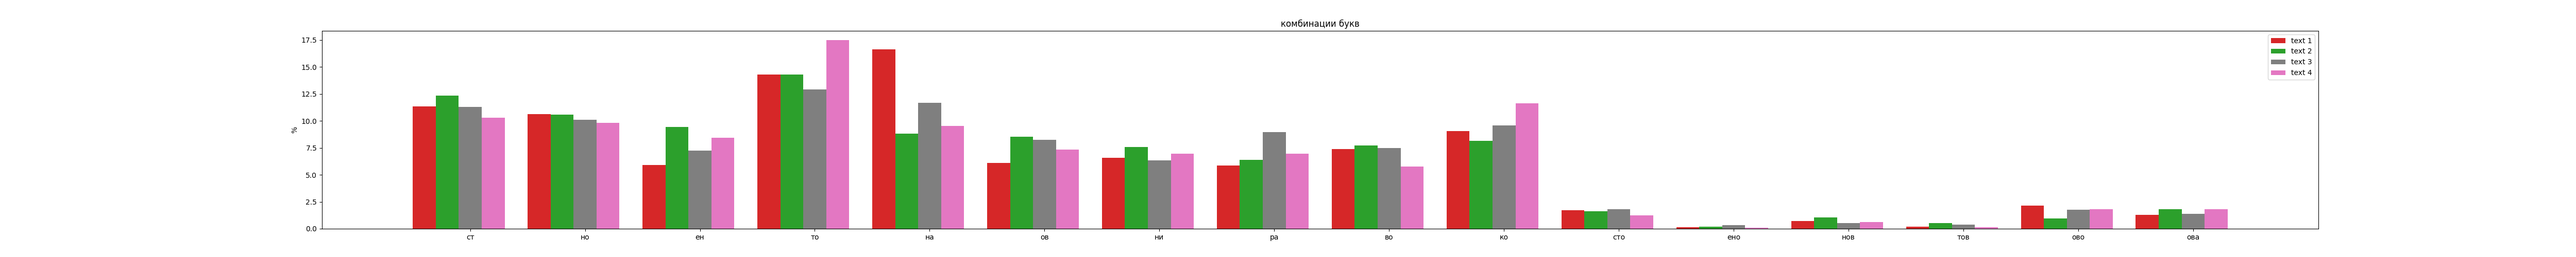
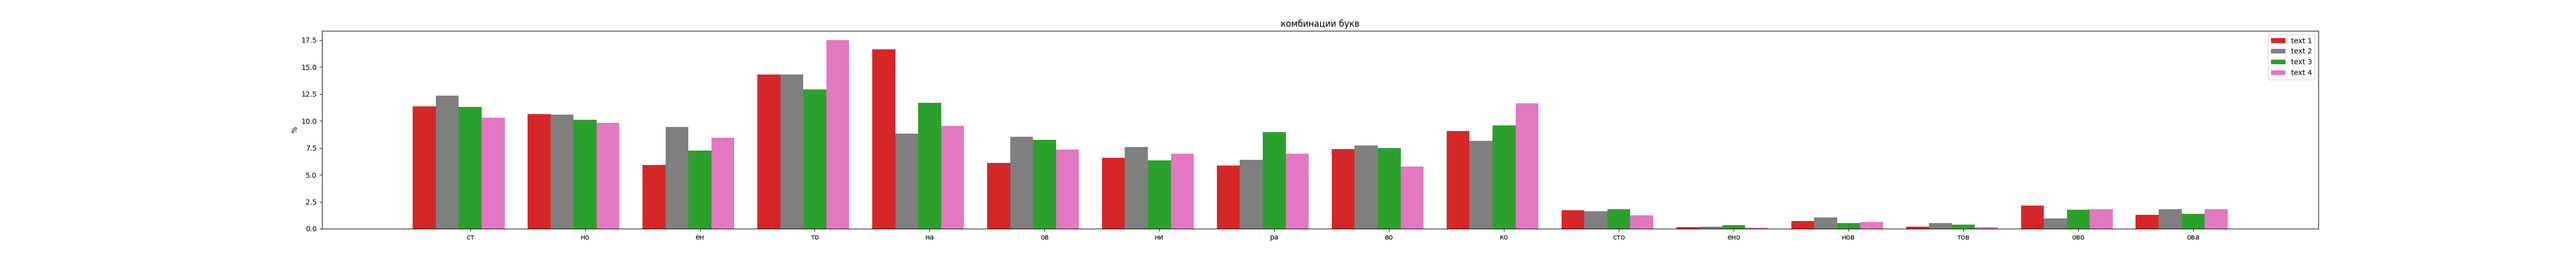
done with word pairs (8)

Changed region(s): [[0.156, 0.3, 0.7176, 0.9], [0.7488, 0.81, 0.8736, 0.9], [0.8736, 0.18, 0.9048, 0.21]]

diff --git a/analytics/app/twoVowsConsPairsPlot.py b/analytics/app/twoVowsConsPairsPlot.py
@@ -1,0 +1,30 @@
+import matplotlib.pyplot as plt
+from matplotlib.axes import Axes
+from app.percentagePlotter import PercentagePlotter, PlotType
+import numpy as np
+
+def twoVowsConsPairsPlot(twoVowsConsNeighbors: list[int], colors):
+    n = 1
+    charFig, (
+        ax
+    ) = plt.subplots(n, 1, figsize=(10, 5*n))
+
+    m = len(twoVowsConsNeighbors)
+    width = 0.2
+    groupWidth = width*m
+    x = np.arange(1)
+    for i, v in enumerate(twoVowsConsNeighbors):
+        offset = -groupWidth/2 + i/m*groupWidth
+        ax.bar(x + offset, v, width, label=f'text {i+1}', color=colors[i%len(colors)])
+
+    ax.set_ylabel('кол-во')
+    ax.set_title("пары слов, первое из которых заканчивается на 2 гласные, а второе начинается с 2 согласных")
+    ax.set_xticks([])
+    handles, labels = ax.get_legend_handles_labels()
+    seen = {}
+    for h, l in zip(handles, labels):
+        if l not in seen:
+            seen[l] = h
+    ax.legend(seen.values(), seen.keys())
+
+    return charFig

diff --git a/analytics/main.py b/analytics/main.py
@@ -9,6 +9,7 @@ from app.combinationPlot import *
 from app.vowConAlterPlot import *
 from app.conVowEndStartPlot import *
 from app.threeInARowPlot import *
+from app.twoVowsConsPairsPlot import *
 
 def main() -> None:
     files = []
@@ -19,7 +20,7 @@ def main() -> None:
             d = json.load(f)
             files.append(d)
 
-    colors = ['tab:red', 'tab:green', 'tab:grey', 'tab:pink']
+    colors = ['tab:red', 'tab:grey', 'tab:green', 'tab:pink']
     plotsPath = "analytics/plots/"  
     plt.tight_layout()
 
@@ -47,6 +48,10 @@ def main() -> None:
 
     threeInARowFig = threeVowsConsInARowPlot([f["threeVowsOrConsInARow"] for f in files], colors)
     threeInARowFig.savefig(plotsPath + "threeVowsOrConsInARow.png")
+
+    print([f["twoVowsConsNeighbors"] for f in files])
+    twoVowsConsPairsFig = twoVowsConsPairsPlot([f["twoVowsConsNeighbors"] for f in files], colors)
+    twoVowsConsPairsFig.savefig(plotsPath + "twoVowsConsPairs.png")
 
 if __name__ == "__main__":
     main()

diff --git a/analytics/app/percentagePlotter.py b/analytics/app/percentagePlotter.py
@@ -27,7 +27,6 @@ class PercentagePlotter():
                 for key in d:
                     values[i][labels.index(key)] = d[key]
 
-        ax.set_ylabel('%')
 
         n = len(labels)
         m = len(values)
@@ -42,6 +41,7 @@ class PercentagePlotter():
             else:
                 ax.plot(x, v, label=f'text {i+1}', color=self.colors[i%len(self.colors)])
 
+        ax.set_ylabel('%')
         ax.set_xticks(x)
         ax.set_xticklabels(map(str, labels))
         handles, labels = ax.get_legend_handles_labels()

diff --git a/TODO.md b/TODO.md
@@ -18,7 +18,7 @@ Python статистика
     [X] 5
     [X] 6
     [X] 7
-    [ ] 8
+    [X] 8
     [ ] 9
 
 [ ] Презентация
